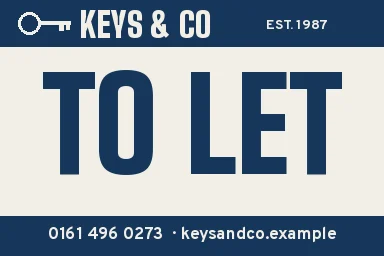
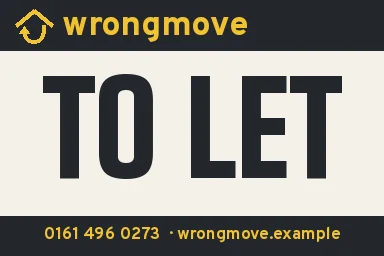
Estate agent boards are Wrongmove's own: charcoal and yellow, a roof with a turned-back arrow
tools/models/property/boards.py repaints the four boards and the window header;
a let property's board reads LET BY WRONGMOVE.

Claude-Session: https://claude.ai/code/session_01E86wuu5aiDuKeETqW4thKh

diff --git a/src/property/levels.ts b/src/property/levels.ts
@@ -84,6 +84,6 @@ export function doorState(save: GameSave, id: string): DoorState {
   const h = holding(save, id);
   if (!h) return { label: `View ${def.name}: ${def.type.toLowerCase()}, ${formatPounds(valueNow(def, save.playTime))}`, board: 'FOR SALE' };
   if (h.use === 'personal') return { label: `${def.name}: go in (yours)` };
-  if (h.tenant) return { label: `${def.name} (let to ${h.tenant.name})`, locked: `${h.tenant.name} live${h.tenant.name.startsWith('The ') ? '' : 's'} here. Manage the let from the estate agent or your computer.`, board: 'LET BY KEYS & CO' };
+  if (h.tenant) return { label: `${def.name} (let to ${h.tenant.name})`, locked: `${h.tenant.name} live${h.tenant.name.startsWith('The ') ? '' : 's'} here. Manage the let from the estate agent or your computer.`, board: 'LET BY WRONGMOVE' };
   return { label: `${def.name}: go in (yours, to let)`, board: 'TO LET' };
 }

diff --git a/src/ui/theme.css b/src/ui/theme.css
@@ -867,7 +867,7 @@ img.title-art { display: block; width: auto; max-width: 100%; object-fit: contai
 .jw-card.worn { background: rgba(106, 208, 74, 0.08); }
 .inv-body.jw-inv { display: block; overflow-y: auto; }
 
-/* ---- Property: Keys & Co and the portfolio --------------------------------------------------------------- */
+/* ---- Property: Wrongmove and the portfolio --------------------------------------------------------------- */
 .prop-tabs .prop-tab { display: inline-flex; align-items: center; gap: 6px; }
 .prop-tabs .prop-tab svg { width: 16px; height: 16px; }
 .prop-tabs.sub .prop-tab { font-size: 13px; padding-top: 4px; padding-bottom: 4px; }

diff --git a/src/render/props/PropertyLibrary.ts b/src/render/props/PropertyLibrary.ts
@@ -28,7 +28,7 @@ const ART: Record<string, string> = {
   'FOR SALE': '/art/agent/board_for_sale.webp',
   'TO LET': '/art/agent/board_to_let.webp',
   SOLD: '/art/agent/board_sold.webp',
-  'LET BY KEYS & CO': '/art/agent/board_let_by.webp',
+  'LET BY WRONGMOVE': '/art/agent/board_let_by.webp',
   header: '/art/agent/window_header.webp',
 };
 const art = new Map<string, THREE.Texture>();

diff --git a/tools/models/property/boards.py b/tools/models/property/boards.py
@@ -1,9 +1,11 @@
-"""Keys & Co board artwork and the window display's header (original work, painted with PIL)."""
+"""Wrongmove board artwork and the window display's header (original work, painted with PIL).
+
+Wrongmove's own look: charcoal and sign yellow, a roof with an arrow doubling back under it."""
 from PIL import Image, ImageDraw, ImageFont
 import os
 ROOT = os.path.dirname(os.path.dirname(os.path.dirname(os.path.dirname(os.path.abspath(__file__)))))
 OUT = ROOT + '/public/art/agent'
-NAVY, RED, WHITE, INK = '#16365a', '#b3121b', '#f2efe6', '#101014'
+CHAR, YELLOW, WHITE, INK = '#24272c', '#f2c230', '#f4f1e8', '#101014'
 
 
 def font(name, size, weight='Black'):
@@ -33,46 +35,44 @@ def fit(text, name, size, maxw, weight='Black'):
     return font(name, size, weight)
 
 
-def keys_mark(d, x, y, s, fill):
-    """A little key: a ring and a bit."""
-    d.ellipse([x, y, x + s, y + s], outline=fill, width=max(2, s // 6))
-    d.rectangle([x + s, y + s * 0.42, x + s * 2.4, y + s * 0.58], fill=fill)
-    d.rectangle([x + s * 1.9, y + s * 0.5, x + s * 2.05, y + s * 0.85], fill=fill)
-    d.rectangle([x + s * 2.2, y + s * 0.5, x + s * 2.35, y + s * 0.78], fill=fill)
+def mark(d, x, y, s, fill):
+    """Wrongmove's mark: a roof, and under it an arrow that turns back on itself."""
+    w = max(2, s // 7)
+    d.line([(x, y + s * 0.5), (x + s * 0.6, y), (x + s * 1.2, y + s * 0.5)], fill=fill, width=w, joint='curve')
+    d.arc([x + s * 0.25, y + s * 0.45, x + s * 0.95, y + s * 1.1], 0, 180, fill=fill, width=w)
+    d.line([(x + s * 0.95, y + s * 0.78), (x + s * 0.95, y + s * 0.5)], fill=fill, width=w)
+    d.polygon([(x + s * 0.25 - w, y + s * 0.78), (x + s * 0.25 + w * 1.5, y + s * 0.78), (x + s * 0.25 + w * 0.25, y + s * 0.55)], fill=fill)
 
 
-def board(fname, big, bg, fg, band, small=None):
+def board(fname, big, bg, fg, band, bandfg, small=None):
     W, H = 384, 256
     im = Image.new('RGB', (W, H), bg)
     d = ImageDraw.Draw(im)
-    d.rectangle([0, 0, W, 46], fill=band)
-    f = font('BigShoulders', 34)
-    keys_mark(d, 18, 12, 22, WHITE)
-    d.text((80, 4), 'KEYS & CO', font=f, fill=WHITE)
-    fs = font('Overpass', 14, 'Bold')
-    d.text((W - 118, 16), 'EST. 1987', font=fs, fill=WHITE)
+    d.rectangle([0, 0, W, 50], fill=band)
+    mark(d, 16, 10, 30, bandfg)
+    d.text((62, 4), 'wrongmove', font=font('Overpass', 34, 'Black'), fill=bandfg)
     if small:
-        centred(d, small, fit(small, 'BigShoulders', 44, W - 40), 62, W, fg)
-        centred(d, big, fit(big, 'BigShoulders', 96, W - 30), 108, W, fg)
+        centred(d, small, fit(small, 'BigShoulders', 44, W - 40), 66, W, fg)
+        centred(d, big, fit(big, 'BigShoulders', 96, W - 30), 112, W, fg)
     else:
-        centred(d, big, fit(big, 'BigShoulders', 128, W - 30), 70, W, fg)
+        centred(d, big, fit(big, 'BigShoulders', 128, W - 30), 74, W, fg)
     d.rectangle([0, H - 40, W, H], fill=band)
-    centred(d, '0161 496 0273  ·  keysandco.example', font('Overpass', 17, 'Bold'), H - 30, W, WHITE)
+    centred(d, '0161 496 0273  ·  wrongmove.example', font('Overpass', 17, 'Bold'), H - 30, W, bandfg)
     im.save(f'{OUT}/{fname}.webp', 'WEBP', quality=86)
 
 
-board('board_for_sale', 'FOR SALE', NAVY, WHITE, RED)
-board('board_to_let', 'TO LET', WHITE, NAVY, NAVY)
-board('board_sold', 'SOLD', RED, WHITE, NAVY)
-board('board_let_by', 'KEYS & CO', RED, WHITE, NAVY, small='LET BY')
+board('board_for_sale', 'FOR SALE', YELLOW, CHAR, CHAR, YELLOW)
+board('board_to_let', 'TO LET', WHITE, CHAR, CHAR, YELLOW)
+board('board_sold', 'SOLD', CHAR, YELLOW, YELLOW, CHAR)
+board('board_let_by', 'WRONGMOVE', CHAR, WHITE, YELLOW, CHAR, small='LET BY')
 
 # Window display header: 1024 x 160.
 W, H = 1024, 160
-im = Image.new('RGB', (W, H), NAVY)
+im = Image.new('RGB', (W, H), CHAR)
 d = ImageDraw.Draw(im)
-d.rectangle([0, H - 14, W, H], fill=RED)
-keys_mark(d, 40, 40, 56, WHITE)
-d.text((200, 18), 'KEYS & CO', font=font('BigShoulders', 96), fill=WHITE)
-d.text((640, 46), 'PROPERTY FOR SALE\nAND TO LET', font=font('Overpass', 30, 'Bold'), fill=WHITE, spacing=6)
+d.rectangle([0, H - 14, W, H], fill=YELLOW)
+mark(d, 40, 34, 80, YELLOW)
+d.text((160, 22), 'wrongmove', font=font('Overpass', 92, 'Black'), fill=WHITE)
+d.text((700, 46), 'PROPERTY FOR SALE\nAND TO LET', font=font('Overpass', 28, 'Bold'), fill=YELLOW, spacing=6)
 im.save(f'{OUT}/window_header.webp', 'WEBP', quality=86)
 print('ok')

diff --git a/docs/TUTORIAL.md b/docs/TUTORIAL.md
@@ -60,7 +60,7 @@ Inputs are keyboard / pad / touch. Unless a row says "(info)" or "(hint)", the l
 | Clothes tiers, outfit buffs, jewellery XP | `items/gearBonus.ts` | none | wearing something that gives a buff | any | B: Dressed for it | read | B |
 | Kitchen: fridge, cupboards, cooking | `home/house.ts`, `kitchenUI.ts` | USE | home | home | B: The kitchen (first fridge or cupboard) | read | B |
 | The Red Lion: bar, lock-in, the Snug | `world/interiors.ts`, `recruit` | USE | in the pub | High Street | B: The Red Lion (first visit) | read | B |
-| Property | `realty/` | USE at Keys & Co | Riverside Centre | later | C: Property (hint at the agent) | read | C |
+| Property | `realty/` | USE at Wrongmove | Riverside Centre | later | C: Property (hint at the agent) | read | C |
 | Bikes | `world/streetBikes.ts` | USE on a bike | bike racks | streets | C: Bikes (hint on the first bike) | read | C |
 | Business | `business/` | the basement | basement unlocked | later | C: The basement (hint on the first visit) | read | C |
 

diff --git a/public/art/agent/SOURCES.md b/public/art/agent/SOURCES.md
@@ -1,4 +1,4 @@
-# Keys & Co artwork: sources
+# Wrongmove artwork: sources
 
 Original work for Street Fight UK, painted with PIL by `tools/models/property/boards.py` using the
 game's own Big Shoulders and Overpass fonts (SIL OFL, see `public/fonts`). The phone number is in
